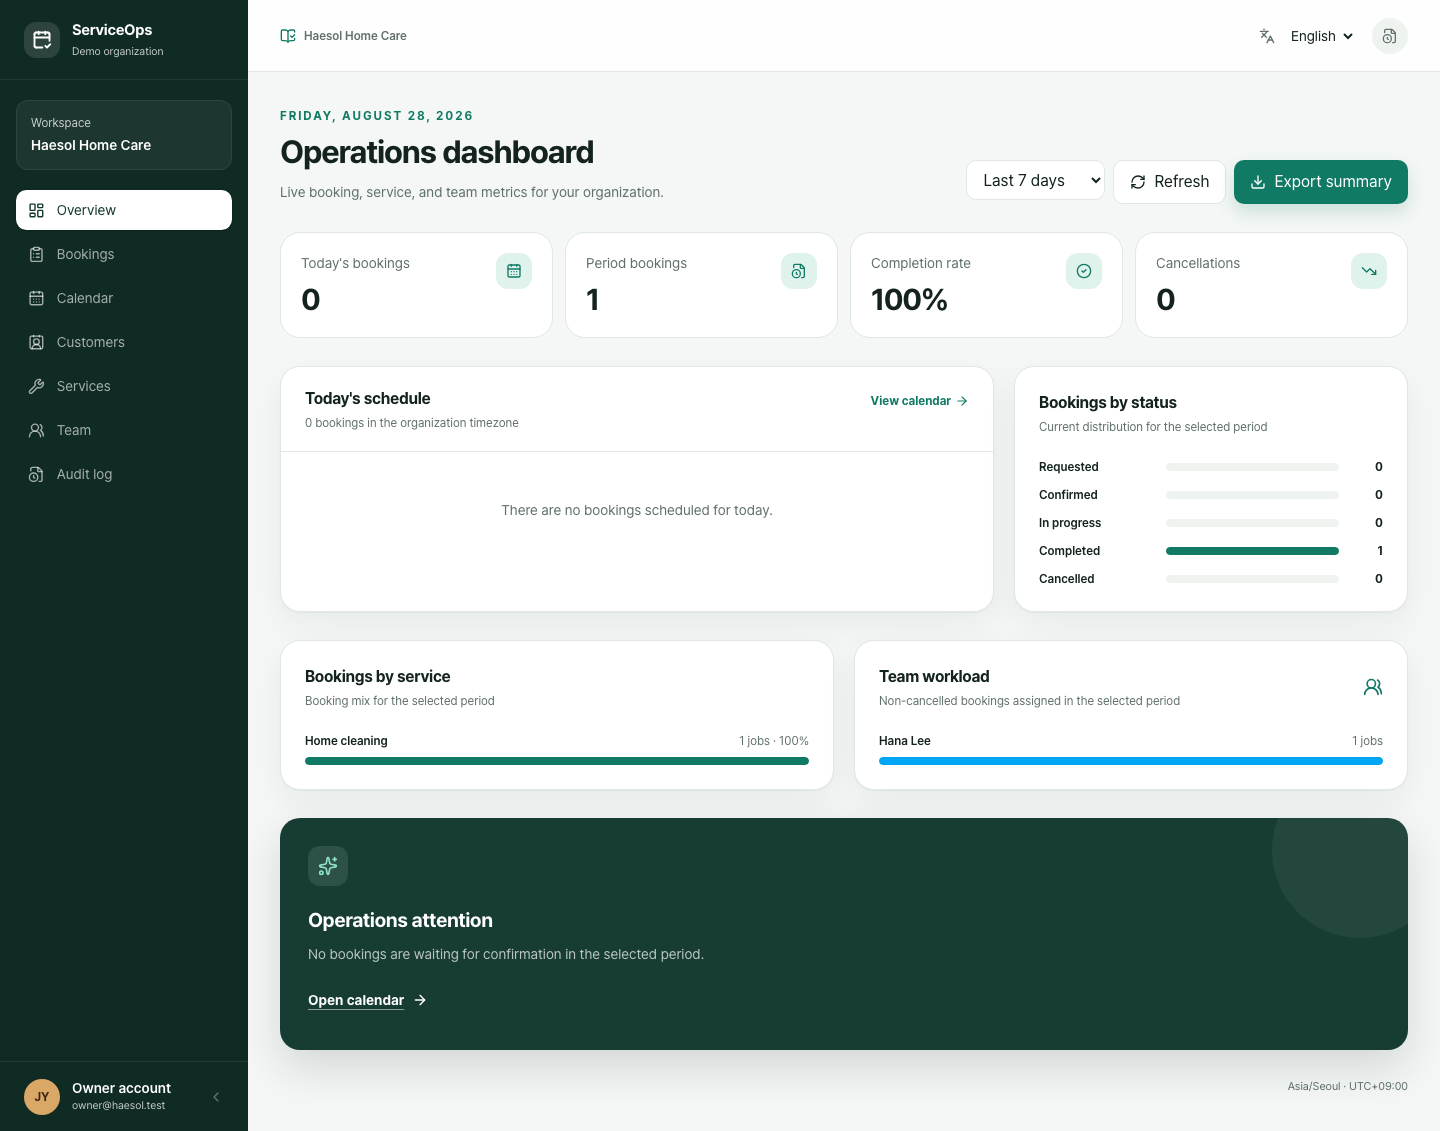
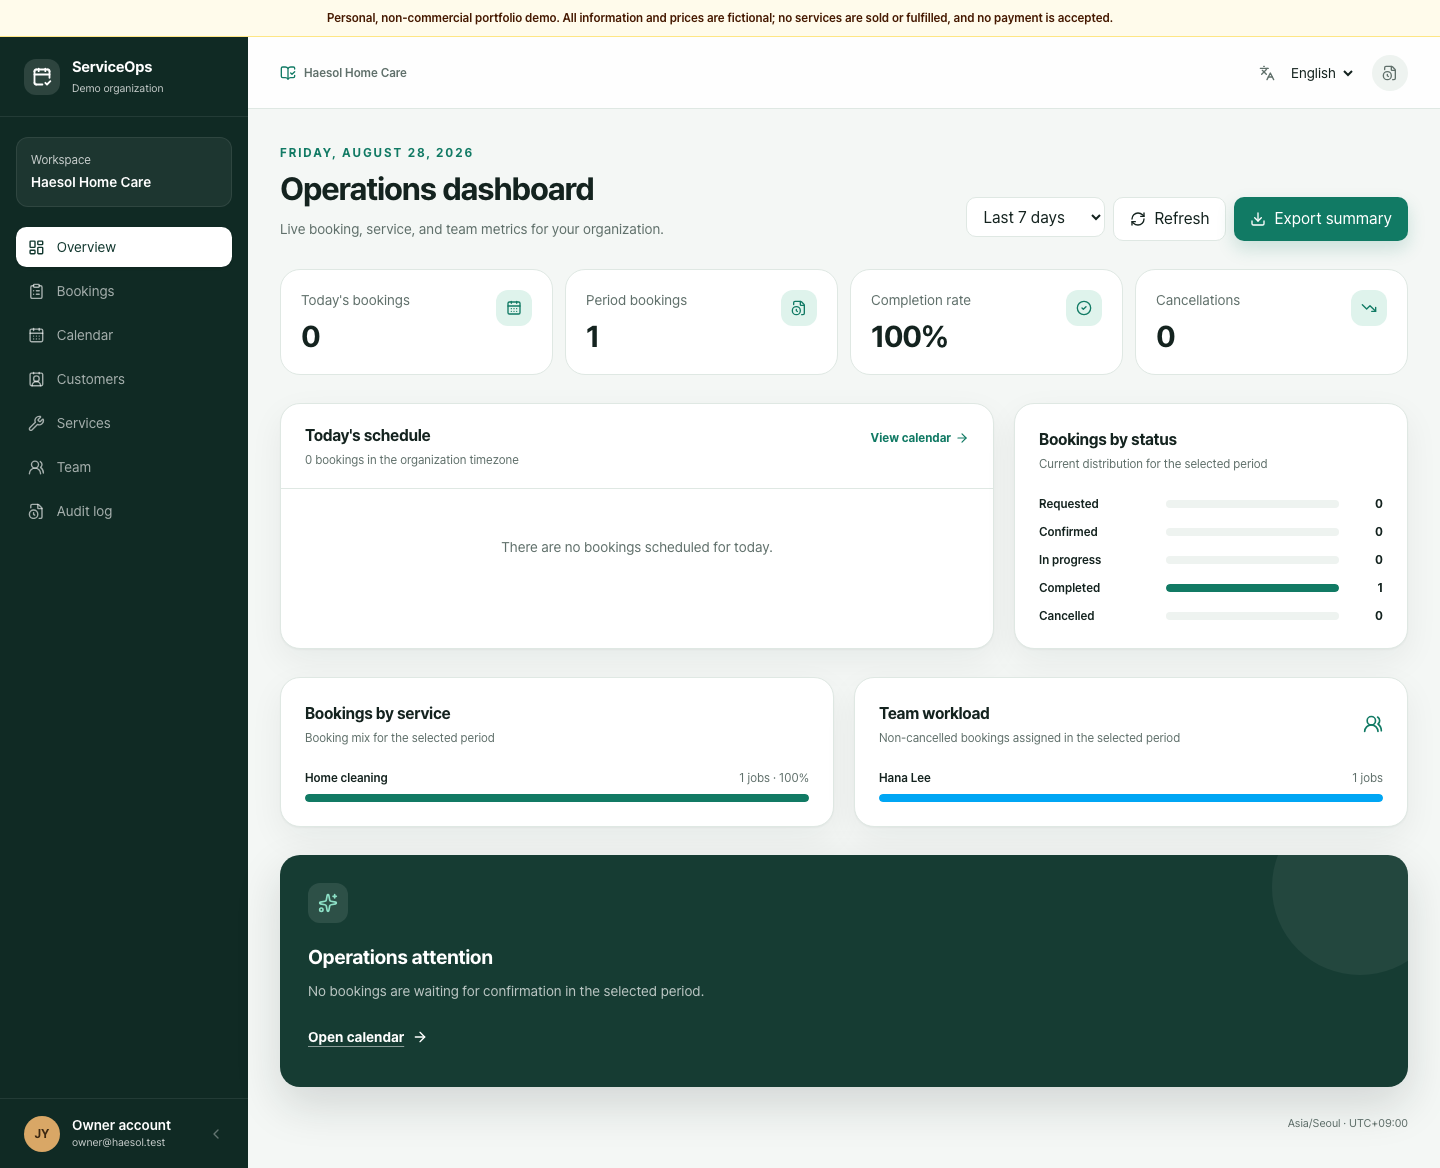
chore: clarify non-commercial portfolio demo

diff --git a/apps/web/src/app/[locale]/layout.tsx b/apps/web/src/app/[locale]/layout.tsx
@@ -1,13 +1,14 @@
 import type {Metadata} from "next";
 import {hasLocale, NextIntlClientProvider} from "next-intl";
-import {getMessages} from "next-intl/server";
+import {getMessages, getTranslations} from "next-intl/server";
 import {notFound} from "next/navigation";
 import {routing} from "@/i18n/routing";
 import "../globals.css";
 
 export const metadata: Metadata = {
-  title: "ServiceOps · Booking and Operations",
-  description: "Booking and operations for small field-service teams.",
+  title: "ServiceOps · Personal Portfolio Demo",
+  description:
+    "A personal, non-commercial booking and operations portfolio demo. No real services are sold or fulfilled, and no payment is accepted.",
 };
 
 export function generateStaticParams() {
@@ -25,10 +26,16 @@ export default async function LocaleLayout({
   if (!hasLocale(routing.locales, locale)) notFound();
 
   const messages = await getMessages();
+  const common = await getTranslations({locale, namespace: "Common"});
 
   return (
     <html lang={locale} data-scroll-behavior="smooth">
       <body>
+        <div role="note" className="border-b border-amber-200 bg-amber-50 px-4 py-2 text-amber-950">
+          <p className="mx-auto max-w-6xl text-center text-xs leading-5 font-semibold">
+            {common("fictionalData")}
+          </p>
+        </div>
         <a
           href="#main-content"
           className="fixed top-3 left-3 z-[100] -translate-y-20 rounded-lg bg-ink px-4 py-2 text-sm font-bold text-white shadow-lg transition focus:translate-y-0"

diff --git a/apps/web/e2e/critical-flows.spec.ts b/apps/web/e2e/critical-flows.spec.ts
@@ -89,7 +89,7 @@ test.describe.serial("ServiceOps critical role flows", () => {
     await page.getByLabel("Service name").fill(serviceName);
     await page.getByLabel("Description").fill("Created by the deterministic E2E flow.");
     await page.getByLabel("Duration in minutes").fill("45");
-    await page.getByLabel("Displayed price (KRW)").fill("55000");
+    await page.getByLabel("Fictional demo price (KRW)").fill("55000");
     await page.getByRole("button", {name: "Save service"}).click();
     await expect(page.getByText("The service was created.")).toBeVisible();
     await expect(page.getByRole("heading", {name: serviceName})).toBeVisible();

diff --git a/apps/web/src/app/[locale]/page.tsx b/apps/web/src/app/[locale]/page.tsx
@@ -86,7 +86,6 @@ export default async function PreviewHome() {
             );
           })}
         </section>
-        <p className="pb-6 text-center text-xs text-muted">{common("fictionalData")}</p>
       </div>
     </main>
   );

diff --git a/SERVICEOPS_CODEX_MASTER_BRIEF.md b/SERVICEOPS_CODEX_MASTER_BRIEF.md
@@ -7,7 +7,7 @@ This document is the single working brief for building ServiceOps with ChatGPT C
 It combines:
 
 - The product and engineering requirements for ServiceOps
-- The portfolio and client-acquisition goal
+- The personal, non-commercial portfolio goal
 - The reusable one-person development process
 - The initial design-system strategy
 - The GitHub, deployment, and database strategy
@@ -25,17 +25,17 @@ Do not silently change a decision. Record proposed changes as an ADR and ask for
 
 # Part A. Strategy and Current Decisions
 
-## 1. Business Goal
+## 1. Project Goal
 
 ServiceOps is not only a demo application. It has two purposes.
 
-### Primary purpose: public developer reference
+### Primary purpose: personal public developer reference
 
-Create a credible, production-quality portfolio application that can be shown to prospective freelance clients. It should demonstrate that one developer can understand a business problem, design an appropriate workflow, implement the full stack, test it, document it, and deploy a convincing demo.
+Create a credible, production-quality personal portfolio application that demonstrates how one developer can understand a product problem, design an appropriate workflow, implement the full stack, test it, document it, and deploy a convincing non-commercial demo.
 
 ### Secondary purpose: reusable delivery process
 
-Use ServiceOps to establish a repeatable development process for future client projects. Future clients will have different requirements, branding, and workflows. The reusable assets should eventually include:
+Use ServiceOps to establish a repeatable development process for future personal or open-source projects. Future projects will have different requirements, branding, and workflows. The reusable assets should eventually include:
 
 - Repository and monorepo structure
 - GitHub issue and pull-request workflow
@@ -72,7 +72,7 @@ Required behavior:
 
 ## 3. Product Presentation Goal
 
-The final public demo should let a prospective client understand the product without reading the source code.
+The final public demo should let a portfolio visitor understand the product without reading the source code.
 
 The primary demo story is:
 
@@ -90,7 +90,7 @@ The final portfolio should include:
 - Architecture diagram
 - Security and tenancy explanation
 - Testing and CI evidence
-- A freelancer-style case study
+- A concise engineering case study
 - Clear non-goals and tradeoffs
 
 ## 4. Current Architecture Decisions
@@ -195,16 +195,18 @@ Docker Desktop and Docker Compose must be available in both work locations. Do n
 
 Local development and automated tests come first.
 
+User decision (2026-08-28): public deployment is for a personal, non-commercial portfolio and must have no recurring hosting cost. The deployed product must not advertise paid services, solicit freelance work, collect payment, or imply that fictional field services will be fulfilled.
+
 The likely public-demo deployment is:
 
 ```text
 GitHub monorepo
-├── Vercel project: apps/web
-├── Vercel project: apps/api
-└── Supabase project: PostgreSQL only
+├── Vercel Hobby project: apps/web
+├── Vercel Hobby project: apps/api
+└── Supabase Free project: PostgreSQL only
 ```
 
-This remains provisional until a working vertical slice is deployed. If Vercel Functions create a real technical problem for FastAPI, document the evidence in an ADR and propose a container host. Do not switch hosting providers silently.
+This remains provisional until a working vertical slice is deployed and the zero-cost limits are validated. Use the provider domains initially and do not purchase a custom domain. If Vercel Functions, free-tier terms, or database suspension create a real technical problem, document the evidence in an ADR and propose another zero-cost host. Do not switch hosting providers silently.
 
 Normal test and build workflows must not depend on production credentials.
 
@@ -410,7 +412,7 @@ A slice is not complete until:
 
 ### Milestone 2: domain correctness
 
-Prioritize the engineering qualities that make ServiceOps credible as a senior freelance reference:
+Prioritize the engineering qualities that make ServiceOps credible as a senior full-stack engineering reference:
 
 - Organization isolation
 - Role-based authorization
@@ -430,7 +432,7 @@ Add staff workflows and owner management only after the vertical slice and domai
 
 Complete customer, staff, and owner pages, operational patterns, responsive states, accessibility, and end-to-end tests.
 
-### Milestone 5: public portfolio and deployment
+### Milestone 5: personal public portfolio and deployment
 
 - Configure safe demo data and demo-role entry paths.
 - Deploy preview and production environments only with approval.
@@ -443,7 +445,7 @@ Complete customer, staff, and owner pages, operational patterns, responsive stat
 
 This is post-MVP work.
 
-After ServiceOps is stable, extract proven generic pieces into a separate client-project starter. Do not move ServiceOps-specific booking logic into the generic template.
+After ServiceOps is stable, extract proven generic pieces into a separate project starter. Do not move ServiceOps-specific booking logic into the generic template.
 
 Potential template contents:
 
@@ -519,11 +521,11 @@ The following baseline specification remains binding unless Part A explicitly su
 
 ## 1. Your Role
 
-Act as a senior full-stack engineer building a production-quality public portfolio project.
+Act as a senior full-stack engineer building a production-quality personal, non-commercial public portfolio project.
 
 Build **ServiceOps**, a web-based booking and operations platform for small field-service businesses such as cleaners, repair technicians, personal trainers, tutors, and beauty-service providers.
 
-The project must look credible to a client hiring an intermediate or senior freelancer. Prioritize a complete, testable, documented MVP over a large unfinished feature set.
+The project must serve as a credible intermediate-to-senior full-stack engineering reference. Prioritize a complete, testable, documented MVP over a large unfinished feature set.
 
 Work autonomously within this specification. If the repository is not empty, inspect it before changing anything and preserve useful existing work. Do not inspect or depend on any unrelated repositories.
 
@@ -1141,9 +1143,9 @@ Document implemented controls, assumptions, threat model, and known limitations.
 
 ### docs/case-study.md
 
-Write this like a concise freelancer case study:
+Write this like a concise engineering case study:
 
-- Client-style problem statement
+- Product problem statement
 - Requirements and constraints
 - Architecture choice
 - Difficult implementation problems
@@ -1213,11 +1215,13 @@ Progress record (2026-08-28): completed the first quality slice with an automate
 
 Clean-checkout record (2026-08-28): cloned public `origin/main` at `5f47a49` into a new temporary directory, installed locked JavaScript and Python dependencies, built the production Docker images, applied migrations, seeded fictional data, verified API health/readiness and Korean/English routes, signed in through a real browser, and exercised the owner dashboard, calendar, service, and booking surfaces. Lint, strict type checking, the production build, 21 backend tests, and 10 isolated Playwright accessibility/critical-flow tests passed. The check exposed that a customized `.env` `TEST_POSTGRES_PORT` reached Docker Compose but not the host pytest URL; `make test` now discovers Docker's actual published test-database port and stops the test container on success, interruption, or failure. Stable UI captures, case-study completion, manual assistive-technology review, deployment approval, and the release tag remain open.
 
-Portfolio progress record (2026-08-28): added a reproducible `make portfolio-captures` workflow that builds an isolated seeded Docker project, captures English customer, staff, dashboard, and calendar views, and removes its temporary database on exit. The generated portfolio images are linked from the README and the new concise freelancer-oriented `docs/case-study.md`. Visual review exposed and corrected a dashboard insight-card background conflict. Reduced-motion and forced-colors focus treatment plus 200%-equivalent reflow coverage were added and recorded in `docs/accessibility.md`. Human VoiceOver/additional screen-reader and physical touch-target review, deployment approval, and the release tag remain open.
+Portfolio progress record (2026-08-28): added a reproducible `make portfolio-captures` workflow that builds an isolated seeded Docker project, captures English customer, staff, dashboard, and calendar views, and removes its temporary database on exit. The generated portfolio images are linked from the README and the concise engineering-focused `docs/case-study.md`. Visual review exposed and corrected a dashboard insight-card background conflict. Reduced-motion and forced-colors focus treatment plus 200%-equivalent reflow coverage were added and recorded in `docs/accessibility.md`. Human VoiceOver/additional screen-reader and physical touch-target review, deployment approval, and the release tag remain open.
 
 Touch-target review record (2026-08-28): measured every visible interactive element across the full 390 × 844 customer booking, staff assigned-work, and owner dashboard pages. The shared language selector and four compact text links measured 16–20 CSS pixels high; their hit areas now measure 40–44 pixels. A Playwright regression guard rejects representative visible interactive targets smaller than 24 CSS pixels, and all 12 isolated accessibility and critical-flow tests pass. `docs/manual-accessibility-review.md` now provides route-by-route VoiceOver, second-screen-reader, physical-device, findings, and retest procedures. Human auditory review and physical-device ergonomics confirmation, deployment approval, and the release tag remain open.
 
 Demo capture record (2026-08-28): added a reproducible `make portfolio-demo` workflow that uses the isolated fictional seed environment to capture an English customer request, staff confirmation, owner dashboard, and booking calendar sequence. The optimized looping GIF is embedded in the README and case study; ImageMagick is the only additional local capture dependency. Human accessibility review, deployment approval, and the release tag remain open.
+
+Non-commercial portfolio review record (2026-08-28): confirmed that the repository contains no personal contact solicitation, hiring CTA, advertising, affiliate link, donation request, payment integration, or real card flow. Reframed the project and case study as a personal, non-commercial engineering portfolio; added an explicit fictional-data/no-sale/no-fulfillment/no-payment notice to every Korean and English route and to page metadata; removed wording that implied real visits, price inquiries, public production registration, client acquisition, or freelance solicitation; and recorded the zero-recurring-cost deployment constraint. All four portfolio screenshots and the eight-frame GIF were regenerated from English routes. Formatting, lint, strict type checking, the production build, and all 12 isolated accessibility and critical-flow browser tests pass.
 
 ## 23. Acceptance Criteria
 

diff --git a/README.md b/README.md
@@ -1,6 +1,6 @@
 # ServiceOps
 
-ServiceOps is a web-based booking and operations platform for small field-service teams. It is being built as a production-quality public portfolio project: customers book available services, staff manage assigned work, and owners oversee schedules, people, reporting, and audit history from one organization-scoped system.
+ServiceOps is a personal, non-commercial portfolio demo of a web-based booking and operations platform for small field-service teams. It demonstrates customers requesting available services, staff managing assigned work, and owners overseeing schedules, people, reporting, and audit history in one organization-scoped system.
 
 > **Current status:** Milestone 4 is complete and Milestone 5 polish is underway. The responsive Korean/English customer, staff, and owner surfaces now include live dashboard metrics, a calendar-oriented booking view, service management, explicit interaction states, isolated Playwright flows, and an automated WCAG 2.1 AA accessibility baseline.
 
@@ -18,7 +18,7 @@ ServiceOps is a web-based booking and operations platform for small field-servic
 - API liveness: `/health`
 - API readiness: `/ready`
 
-All displayed names, email addresses, schedules, metrics, and prices are fictional demo data persisted by `make seed`. The displayed prices are non-billing information and no payment is collected.
+All displayed names, email addresses, schedules, metrics, and prices are fictional demo data persisted by `make seed`. No real services are sold or fulfilled, and no payment is accepted or collected.
 
 ## Product views
 
@@ -42,7 +42,7 @@ flowchart LR
     GitHub --> Containers[Container builds]
 ```
 
-The repository is a simple monorepo. A single Next.js application contains public, customer, staff, and owner surfaces. FastAPI remains the authority for authentication, authorization, tenancy, and booking rules. PostgreSQL runs locally through Docker Compose and may later use Supabase as a managed database only.
+The repository is a simple monorepo. A single Next.js application contains public, customer, staff, and owner surfaces. FastAPI remains the authority for authentication, authorization, tenancy, and booking rules. PostgreSQL runs locally through Docker Compose; the provisional zero-cost public-demo target uses Supabase Free as a managed database only.
 
 See [architecture notes](docs/architecture.md) and the [architecture decisions](docs/adr/) for details.
 
@@ -149,6 +149,7 @@ Makefile
 ## Security notes
 
 - No real customer, payment, or personal data is used.
+- The public site is a personal, non-commercial software demo; it does not advertise or fulfill real services.
 - Local ports bind to `127.0.0.1` by default.
 - Secrets belong in the ignored `.env` file; `.env.example` contains placeholders only.
 - Access and refresh credentials are opaque HttpOnly cookies; only their SHA-256 hashes are stored in PostgreSQL.

diff --git a/docs/case-study.md b/docs/case-study.md
@@ -1,16 +1,16 @@
 # ServiceOps case study
 
-## The client-style problem
+## Problem overview
 
 Small field-service teams often coordinate bookings through a mixture of phone calls, messages, personal calendars, and spreadsheets. Customers cannot see reliable availability, staff do not have one authoritative view of assigned work, and owners spend time reconciling status updates instead of managing service quality.
 
-ServiceOps is a portfolio implementation of a focused replacement: one organization-scoped system where customers request available times, staff advance assigned work through valid states, and owners manage the schedule, catalog, people, reporting, and audit history.
+ServiceOps is a personal portfolio implementation of a focused replacement: one organization-scoped system where customers request available times, staff advance assigned work through valid states, and owners manage the schedule, catalog, people, reporting, and audit history.
 
 ## Requirements and constraints
 
 The MVP needed to support customer, staff, and owner roles in Korean and English; generate bookable slots from weekly availability and time off; prevent overlapping active appointments; preserve customer privacy and internal notes; expose operational reports and CSV export; and remain reproducible on a developer laptop.
 
-The project deliberately uses fictional `.test` identities and collects no payment. PostgreSQL and Docker Compose are the local baseline. External accounts, paid infrastructure, and deployment remain explicit approval decisions rather than hidden prerequisites.
+The project deliberately uses fictional `.test` identities. It sells and fulfills no real services and accepts no payment. PostgreSQL and Docker Compose are the local baseline; external accounts and deployment remain explicit approval decisions, and the public portfolio target must remain free.
 
 ## Architecture choice
 
@@ -67,7 +67,7 @@ Automated axe checks target WCAG 2.0/2.1 A and AA rules across representative ro
 
 ## Deliberate exclusions
 
-The MVP excludes payments, invoicing, payroll, accounting, chat, AI features, native mobile apps, complex routing, recurring-booking automation, third-party OAuth, and SMS delivery. These features would add operational and compliance cost without improving the core portfolio story: reliable scheduling and role-aware service operations.
+The MVP excludes payments, invoicing, payroll, accounting, chat, AI features, native mobile apps, complex routing, recurring-booking automation, third-party OAuth, and SMS delivery. These features would add operational and compliance cost without improving the core engineering demonstration: reliable scheduling and role-aware service operations.
 
 ## Outcome and next phase
 

diff --git a/docs/adr/005-deployment.md b/docs/adr/005-deployment.md
@@ -5,23 +5,26 @@
 
 ## Context
 
-The public portfolio needs a convincing demo, but local reproducibility and automated tests come first. Deployment must not introduce paid resources or production credentials without explicit approval.
+The personal, non-commercial public portfolio needs a convincing demo, but local reproducibility and automated tests come first. The user requires a zero-cost deployment. It must not sell or fulfill services, solicit freelance work, collect payment, introduce paid resources, or use production credentials.
 
 ## Decision
 
 - Keep Docker Compose as the local development baseline in both work locations.
 - Use GitHub as source control and CI, not as the production API or database.
+- Keep recurring hosting and domain cost at zero; use provider domains initially.
 - Evaluate the initial public topology as:
-  - Vercel project for `apps/web`
-  - Vercel project for `apps/api`
-  - Supabase-hosted PostgreSQL only
+  - Vercel Hobby project for `apps/web`
+  - Vercel Hobby project for `apps/api`
+  - Supabase Free-hosted PostgreSQL only
+- Keep the deployment a personal, non-commercial product demonstration and show an explicit fictional-data/no-sale/no-payment notice on every route.
 - Do not deploy, create external projects, or incur costs without explicit approval.
 - Keep normal lint, type-check, test, and build workflows independent of production credentials.
 - If FastAPI on Vercel Functions causes measured limitations, record the evidence in a new ADR before proposing a container host.
 
 ## Consequences
 
-- The topology stays inexpensive and simple enough for a portfolio if the vertical slice validates it.
+- The topology has no planned recurring cost and stays simple enough for a personal portfolio if the vertical slice validates it.
+- Free-tier suspension, cold starts, quotas, and provider terms may reduce availability and must be accepted or addressed without silently adding cost.
 - Serverless runtime constraints may affect database connections, startup behavior, background work, and observability.
 - Deployment-domain choices affect authentication cookies, CORS, and CSRF configuration.
 
@@ -34,4 +37,4 @@ Before accepting this ADR permanently, deploy one approved vertical slice and ve
 - migrations and safe secret configuration
 - cookie, CORS, and CSRF behavior between frontend and API
 - logs, health checks, and rollback procedure
-- actual hosting cost and free-tier limitations
+- confirmed zero-dollar hosting cost and free-tier limitations
